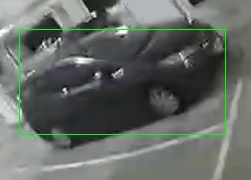
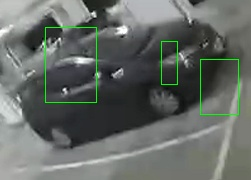
integrate bounding box formation interface

Changed region(s): [[0.0558, 0.1389, 0.9761, 0.7778], [0.6135, 0.2222, 0.7251, 0.5]]

diff --git a/FYP_WEB/base/views.py b/FYP_WEB/base/views.py
@@ -44,7 +44,7 @@ def draw(request):
         cv2.imshow(WIN_NAME,draw_rects.image_for_show)
         key = cv2.waitKey(30)
         if key == 27:  # ESC
-            cv2.imwrite('Img_Boxes/'+draw_rects.img_name+'_bboxes'+'.jpg', draw_rects.image_for_show)
+            cv2.imwrite(cfp+'/DrawRectangle/Img_Boxes/'+draw_rects.img_name+'_bboxes'+'.jpg', draw_rects.image_for_show)
             break
     cv2.destroyAllWindows()
 

diff --git a/FYP_WEB/base/DrawRectangle/DrawBoundingBox.py b/FYP_WEB/base/DrawRectangle/DrawBoundingBox.py
@@ -158,6 +158,6 @@ if __name__ == '__main__':
         cv2.imshow(WIN_NAME,draw_rects.image_for_show)
         key = cv2.waitKey(30)
         if key == 27:  # ESC
-            cv2.imwrite(cfp+'/Img_Boxes/'+draw_rects.img_name+'_bboxes'+'.jpg', draw_rects.image_for_show)
+            cv2.imwrite(cfp+'Img_Boxes/'+draw_rects.img_name+'_bboxes'+'.jpg', draw_rects.image_for_show)
             break
     cv2.destroyAllWindows()
